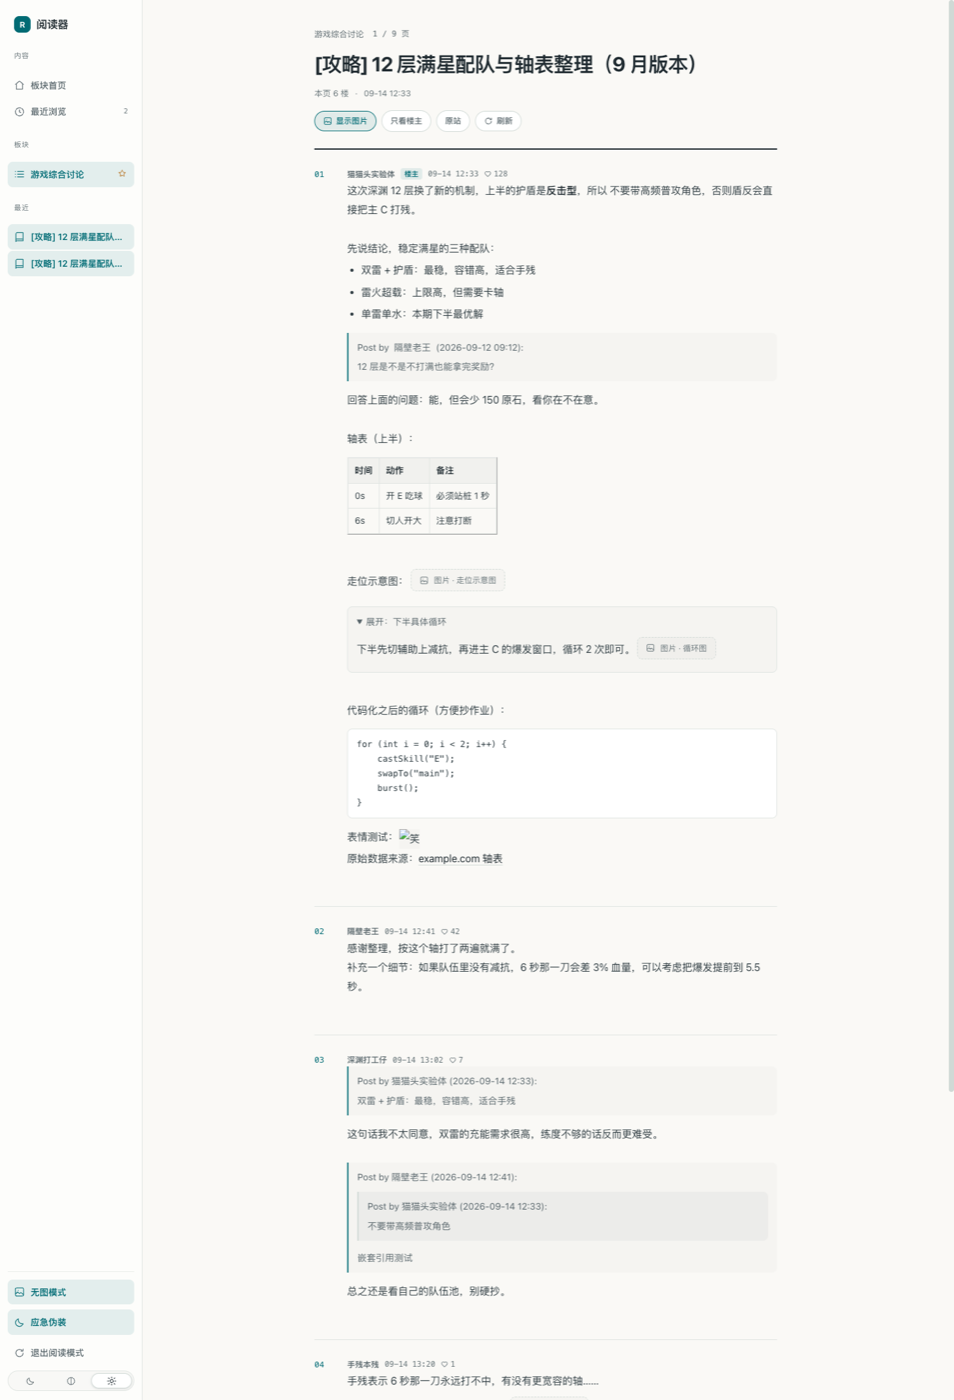
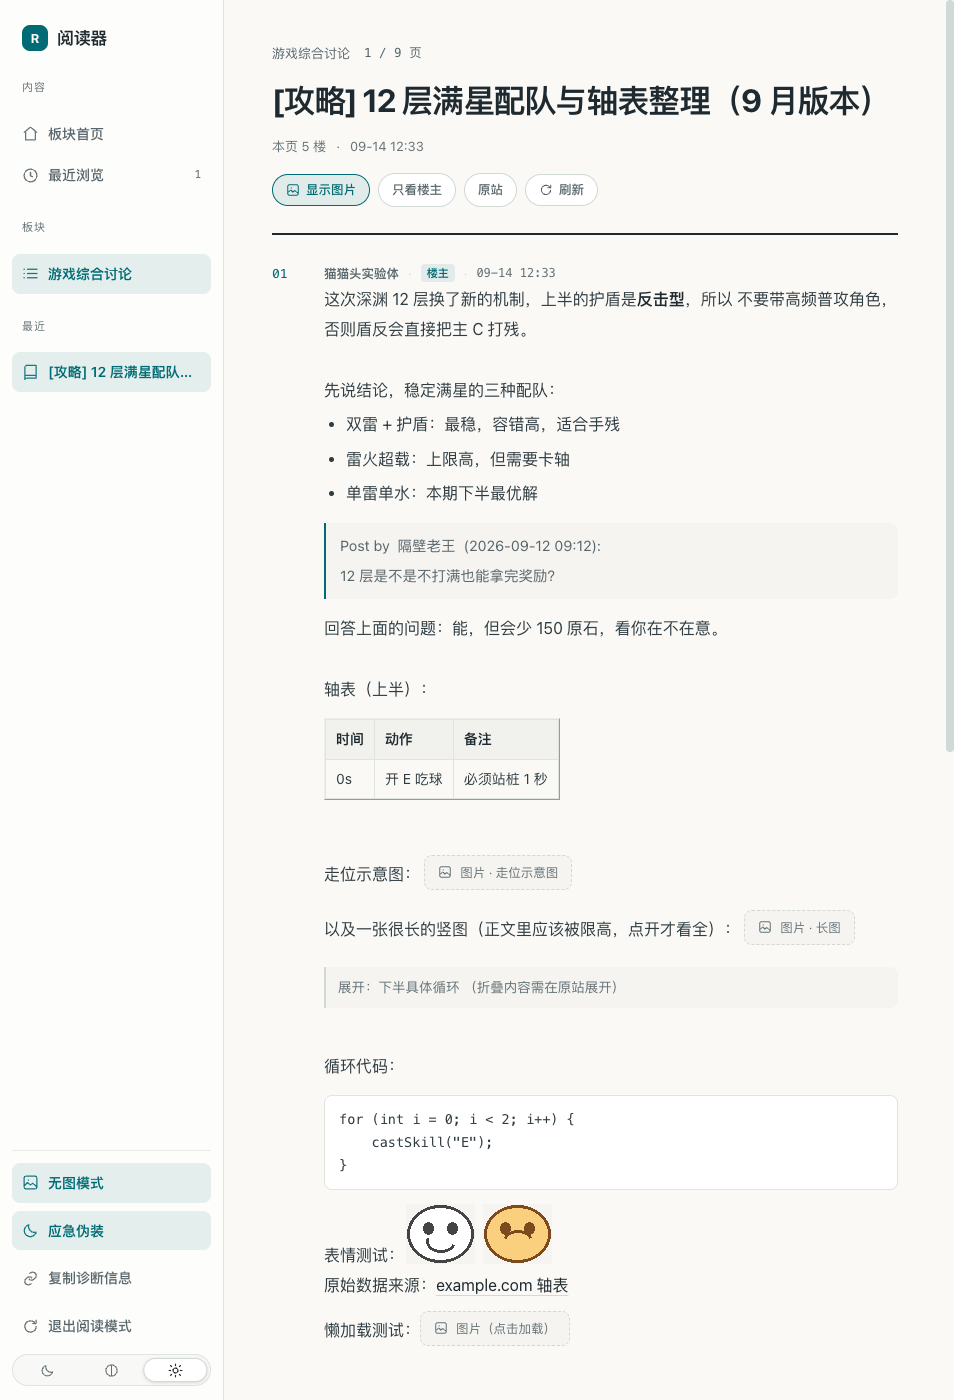
fix: 图片宽度压住原站内联样式，表情与正式图片分开识别
真机实测：接管后原站 JS（ubbcode.adjImgSize）仍会往我们克隆出来的图上写
内联 max-width:982px（按它自己的布局宽度算，正文栏才 676px），所以图片的
宽高规则必须 !important；同时把克隆图上的原站钩子（data-argi/data-nw/
data-srcorg…）摘干净，并认掉原站给「点开看大图」画的内联描边。

表情：NGA 的 [s:ac:11] 是 <img class="smile_ac" src=".../post/smile/ac11.png">，
没有尺寸属性、原图 69×60，之前被当成正式图片排成块级大图。现在按 class 含 smile
或地址含 /post/smile/ 识别，始终按原图大小行内排、不进预览、无图模式下也照常显示。

样例页与截图同步更新（fixture 里加了同名模拟：模仿原站往图上写 max-width 做回归）

diff --git a/extension/src/nga/sanitize.js b/extension/src/nga/sanitize.js
@@ -63,8 +63,6 @@ const STRIP_SELECTORS = [
     '.contentFullWidthButton',
 ];
 
-const INLINE_IMAGE_RE = /(smilie|smiley|post_smiley|e\d{2}\.gif|\/emot)/i;
-
 /**
  * @param {Element} sourceEl  原站正文容器
  * @param {object}  options   { baseUrl, hideImages }
@@ -274,12 +272,56 @@ function convertVideos(root, baseUrl) {
    6. 图片
    -------------------------------------------------------------------------- */
 
+/** 表情：[s:a2:02] 渲染成 <img class="smile_a2" src="https://img4.nga.cn/ngabbs/post/smile/a2_02.png" alt="02">
+ *  （出处：NGA 静态资源 js_bbscode_core.js；实测原图 69×60，比正文大一圈，但没有 data-* 尺寸可依）
+ *  老页面/第三方还有 smilie、e01.gif 这类写法，一并认掉。 */
+const SMILE_CLASS_RE = /(^|\s)smile/i;
+const SMILE_SRC_RE = /\/post\/smile\//i;
+const INLINE_IMAGE_RE = /(smilie|smiley|post_smiley|e\d{2}\.gif|\/emot)/i;
+
+/** 原站留给自己的图片钩子（懒加载/尺寸/点击换图）。副本上留着，原站的 JS 会继续认领它、
+ *  往上面写 max-width:900+px 的内联样式（见 app.css 里的说明），所以一律摘掉。 */
+const IMAGE_HOOK_ATTRS = [
+    'data-src',
+    'data-original',
+    'data-lazy-src',
+    'data-srcorg',
+    'data-srclazy',
+    'data-srcnolazy',
+    'data-usethumb',
+    'data-argi',
+    'data-nw',
+    'data-nh',
+    'data-iw',
+    'data-ih',
+    'data-apporg',
+    'data-appinit',
+    'data-zom',
+    'file',
+    '_orgt',
+    '_us',
+];
+
+function isEmoteImage(node, rawSrc) {
+    return (
+        SMILE_CLASS_RE.test(node.getAttribute('class') || '') ||
+        SMILE_SRC_RE.test(rawSrc) ||
+        INLINE_IMAGE_RE.test(rawSrc)
+    );
+}
+
+function stripImageHooks(node) {
+    IMAGE_HOOK_ATTRS.forEach((attr) => node.removeAttribute(attr));
+}
+
 export function pickImageSrc(img) {
     const candidates = [
         img.getAttribute('data-src'),
         img.getAttribute('data-original'),
         img.getAttribute('data-lazy-src'),
         img.getAttribute('data-srcorg'),
+        img.getAttribute('data-srclazy'),
+        img.getAttribute('data-srcnolazy'),
         img.getAttribute('file'),
         img.getAttribute('src'),
     ];
@@ -292,21 +334,19 @@ export function pickImageSrc(img) {
 }
 
 function processImages(root, baseUrl, hideImages, options) {
-    root.querySelectorAll('img, [data-src][class*="img"]').forEach((node) => {
-        if (node.tagName !== 'IMG') return;
-
+    root.querySelectorAll('img').forEach((node) => {
         const rawSrc = pickImageSrc(node);
         const src = absolute(rawSrc, baseUrl);
         // 实测 NGA 大量用 179x1 这种 1px 图做占位/间隔，正文里不该出现
         const declaredW = Number(node.getAttribute('data-nw') || node.getAttribute('width')) || 0;
         const declaredH = Number(node.getAttribute('data-nh') || node.getAttribute('height')) || 0;
-        if (declaredW && declaredH && declaredW <= 4 && declaredH <= 4 && !INLINE_IMAGE_RE.test(rawSrc)) {
+        const emote = isEmoteImage(node, rawSrc);
+        if (declaredW && declaredH && declaredW <= 4 && declaredH <= 4 && !emote) {
             node.remove();
             return;
         }
-        const width = declaredW;
-        const height = declaredH;
-        const isSmall = (width && width <= 28) || (height && height <= 28) || INLINE_IMAGE_RE.test(rawSrc);
+        // 行内小图：表情，或者 28px 以下的图标/间隔图
+        const isInline = emote || (declaredW && declaredW <= 28) || (declaredH && declaredH <= 28);
         const alt = node.getAttribute('alt') || node.getAttribute('title') || '';
 
         if (!src) {
@@ -323,14 +363,14 @@ function processImages(root, baseUrl, hideImages, options) {
             return;
         }
 
-        // 表情：保持行内小图标，不受无图模式影响
-        if (isSmall) {
+        // 表情：始终保持行内小图标，不受无图模式影响（表情是文字的一部分，不是「图片内容」）
+        if (isInline) {
             node.setAttribute('src', src);
             node.setAttribute('alt', alt);
             node.classList.add('ngr-inline-img');
             node.removeAttribute('width');
             node.removeAttribute('height');
-            ['data-src', 'data-original', 'data-lazy-src', 'file'].forEach((attr) => node.removeAttribute(attr));
+            stripImageHooks(node);
             return;
         }
 
@@ -339,6 +379,7 @@ function processImages(root, baseUrl, hideImages, options) {
             node.setAttribute('loading', 'lazy');
             node.setAttribute('decoding', 'async');
             node.setAttribute('alt', alt);
+            stripImageHooks(node);
             return;
         }
 

diff --git a/dev/fixtures/thread.html b/dev/fixtures/thread.html
@@ -176,7 +176,11 @@
                                         <pre><code>for (int i = 0; i &lt; 2; i++) {
     castSkill("E");
 }</code></pre>
-                                        表情测试：<img src="/dev/fixtures/smile.gif" alt="笑" width="20" height="20" />
+                                        <!-- 实测：NGA 的 [s:ac:11] 渲染成 <img class="smile_ac" src="…/post/smile/ac11.png" alt="咦">
+                                             —— 表情没有 data-* 尺寸可依，只能看类名/地址；原图 69×60。
+                                             第二个没有 class，只能靠 /post/smile/ 地址认。 -->
+                                        表情测试：<img class="smile_ac" src="/dev/fixtures/smile_ac11.png" alt="咦" />
+                                        <img src="/dev/fixtures/post/smile/ac15.png" alt="笑" />
                                         <br />
                                         原始数据来源：<a href="https://example.com/axis-table" target="_blank">example.com 轴表</a>
                                         <br />
@@ -260,6 +264,28 @@
                 window.commonui.postArg = { data: data };
                 window.commonui.topicArg = { data: {} };
                 window.__PAGE = ['/read.php?tid=1234567', 9, 1, 0];
+            })();
+        </script>
+        <script>
+            // 复刻 NGA 的 ubbcode.adjImgSize：它会按**原站自己**的布局宽度给图写内联 max-width
+            //（真机实测 982~1030px，比正文栏宽 300px）。这里故意写更宽 + 加 min-width 和描边，
+            // 用来回归验证 app.css 里那几条 !important 是否压得住。
+            (function () {
+                if (/noadj=1/.test(location.search)) return;
+                var write = function () {
+                    document.querySelectorAll('.ngr-content img').forEach(function (img) {
+                        img.style.maxWidth = '990px';
+                        img.style.minWidth = '640px';
+                        img.style.outline = '5px solid rgb(230, 195, 168)';
+                        img.style.outlineOffset = '-5px';
+                    });
+                };
+                // 渲染是异步的（boot → 取数 → 画），周期性模仿几次而已
+                var tries = 0;
+                var timer = setInterval(function () {
+                    write();
+                    if (++tries > 20) clearInterval(timer);
+                }, 500);
             })();
         </script>
         <script type="module" src="/dev/harness-boot.js"></script>

diff --git a/extension/src/styles/app.css b/extension/src/styles/app.css
@@ -812,17 +812,24 @@
     font-style: italic;
 }
 
+/* 大图（表情见下面 .ngr-inline-img）。
+   这里必须 !important：原站 JS（ubbcode.adjImgSize）会按**它自己**的布局宽度给图片写
+   内联 max-width（实测 982~1030px，比正文栏宽 300px），非 !important 的规则压不住。 */
 .ngr-content img {
     display: block;
-    width: auto;
-    max-width: 100%;
+    width: auto !important;
+    max-width: 100% !important;
+    min-width: 0 !important;
     /* 图片框限高：一张竖图不该占满整屏，点开才是看大图的地方 */
-    max-height: 70vh;
-    height: auto;
+    max-height: 70vh !important;
+    min-height: 0 !important;
+    height: auto !important;
     margin: 14px 0;
     border: 1px solid var(--ng-border);
     border-radius: 10px;
     background: var(--ng-surface-0);
+    /* 原站给「点开看大图」画的内联描边，我们用全屏预览替代 */
+    outline: none !important;
     cursor: zoom-in;
     transition: border-color var(--ng-dur-fast) ease;
 }
@@ -831,10 +838,10 @@
     border-color: var(--ng-accent);
 }
 
-/* 表情/小图标不参与大图排版，也不进预览 */
+/* 表情/小图标不参与大图排版，也不进预览：按原图大小行内排 */
 .ngr-content img.ngr-inline-img {
     display: inline-block;
-    max-height: none;
+    max-height: none !important;
     margin: 0 2px;
     border: 0;
     border-radius: 0;
@@ -989,7 +996,9 @@
     height: 14px;
 }
 
-.ngr-hide-images .ngr-content img {
+/* 无图模式的兜底（正常情况下表情/图片已在 sanitize 阶段换成占位了）：
+   表情不在此列 —— 它们是文字的一部分，无图模式也要看得见 */
+.ngr-hide-images .ngr-content img:not(.ngr-inline-img) {
     display: none;
 }
 

diff --git a/dev/README.md b/dev/README.md
@@ -25,6 +25,7 @@ python3 dev/server.py 8765
 | 文件 | 说明 |
 | --- | --- |
 | `fixtures/thread.html` | 按真实 read.php 仿写：`#m_posts > #m_posts_c > table.forumbox.postbox > tr.row1`，`td.c1 .posterInfoLine .author`，`td.c2 #postsubject{N}` / `#postcontent{N}` / `#postdate{N}` / `.stat > .recommendvalue`；含引用、嵌套引用、表格、代码块、折叠块、表情、懒加载图片、签名、贴条 |
+| `fixtures/smile_ac11.png`、`fixtures/post/smile/ac15.png` | 表情样例（69×60，与真实 NGA 表情同尺寸）。一个靠 `class="smile_ac"` 认，一个只能靠 `/post/smile/` 地址认；页面底部还会模仿原站 JS 往图上写内联 `max-width:990px`/`min-width`/描边（真机就是这个把图撑到比正文栏宽的），用来回归验证 `app.css` 里的 `!important`；加 `?noadj=1` 可跳过这段模拟 |
 | `fixtures/board.html` | 按真实 thread.php 仿写：`#topicrows > table.forumbox > tr.row1/.row2 > td.c1~c4`，`a.topic`、`span[class^=t_k_]`、`a.author`、`span.silver.postdate` |
 | `fixtures/home.html` | `.catenew > .catetitle` + `a[href*=fid=]` |
 | `fixtures/blocked.html` | 模仿 NGA 拒绝访客的 `(ERROR:15)` 页面，用 `?blocked=1` 触发，用来验证兜底界面与「复制诊断」 |
